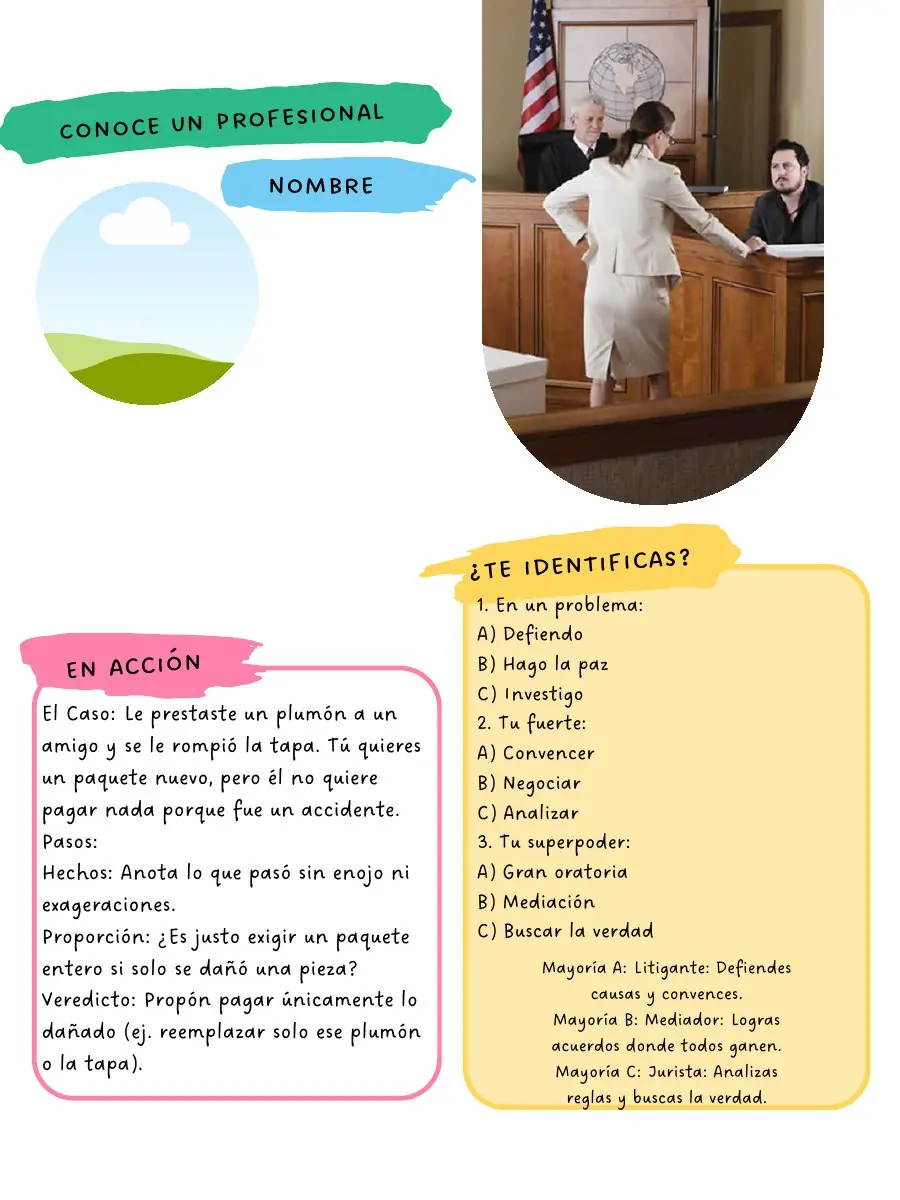
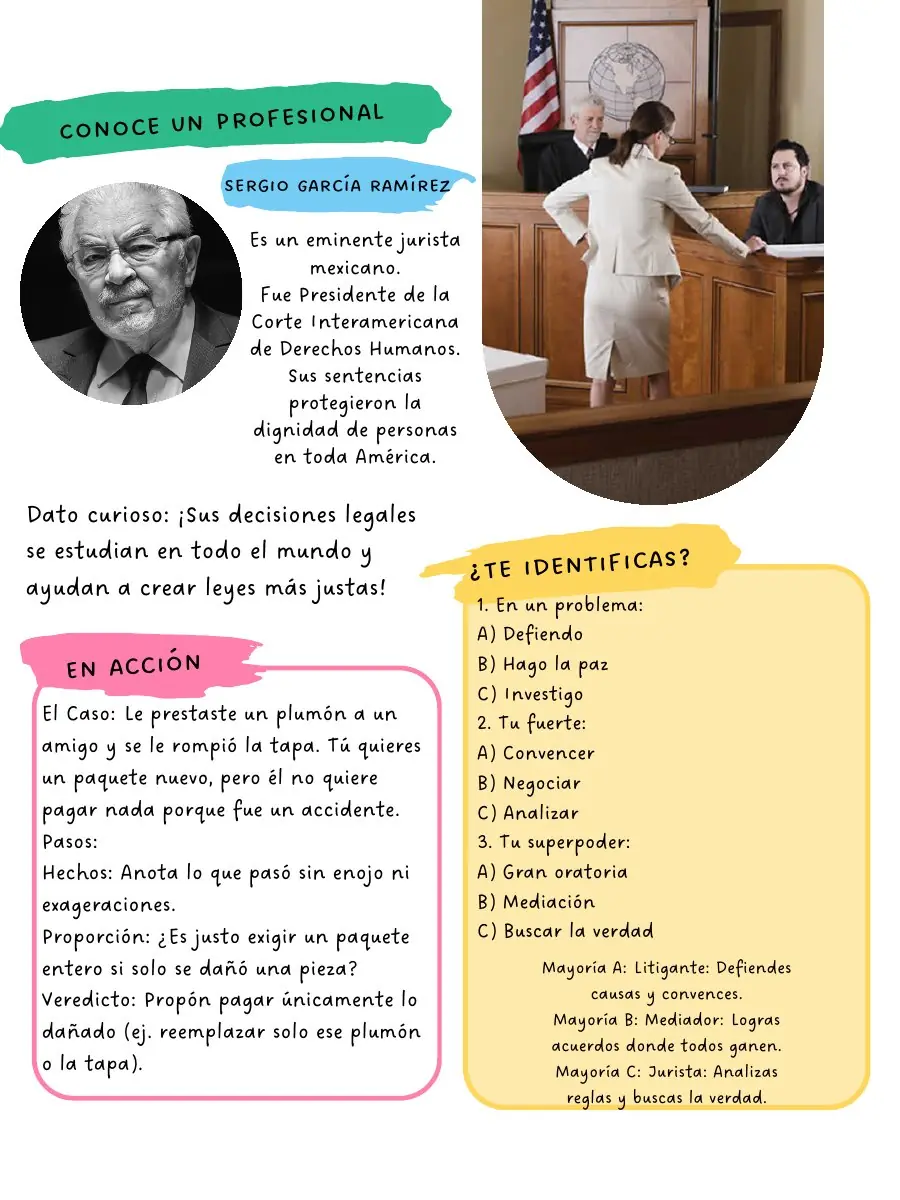
Add files via upload

Changed region(s): [[0.0, 0.1233, 0.4978, 0.4933]]

diff --git a/app.js b/app.js
@@ -74,8 +74,12 @@ const NOT_CONFUSE={
 "biologia":"Biología estudia a los seres vivos y sus procesos; Veterinaria se enfoca en prevenir, diagnosticar y tratar enfermedades de los animales.",
 "agricultura":"Agricultura cultiva plantas y alimentos cuidando la tierra y el agua; Biología estudia a los seres vivos en general.",
 "quimica":"Química estudia de qué están hechas las cosas y cómo se transforman; Física estudia el movimiento, la luz, la energía y la gravedad.",
-"fisica":"Física estudia el movimiento, la luz, la energía y la gravedad; Química estudia de qué están hechas las cosas y cómo se transforman."};
-// Conoce a un profesional: id -> [nombre, perfil, dato curioso]. Faltan: derecho, atleta, quimica
+"fisica":"Física estudia el movimiento, la luz, la energía y la gravedad; Química estudia de qué están hechas las cosas y cómo se transforman.",
+"docencia":"Docencia se enfoca en cómo enseñar y ayudar a aprender; Física, Música y otras carreras se enfocan en dominar un tema, y quienes las estudian también pueden dedicarse a enseñarlo.",
+"derecho":"Derecho estudia las leyes y ayuda a defender derechos y resolver conflictos; Administración de Empresas puede conocer leyes de negocios, pero se enfoca en organizar y dirigir una empresa.",
+"musica":"Música crea e interpreta sonidos y canciones; Diseño de Moda crea prendas y colecciones. Las dos son carreras creativas, pero con materiales muy diferentes.",
+"atleta":"Atleta entrena y compite para mejorar su rendimiento deportivo; Nutrición estudia cómo la alimentación influye en la salud, también la de las personas deportistas."};
+// Conoce a un profesional: id -> [nombre, perfil, dato curioso]. Completo (24 carreras)
 const PERFILES={
 "arquitectura":["Luis Barragán","Fue un arquitecto mexicano famoso por sus colores y jardines. ¡En 1980 ganó el Premio Pritzker, el más importante de arquitectura!","¡Sus edificios parecen obras de arte gracias a sus colores y formas!"],
 "ingenieria-civil":["Ángela Alessio Robles","Fue una ingeniera civil mexicana que ayudó a planear el crecimiento de la Ciudad de México y participó en proyectos urbanos como la Macroplaza de Monterrey.","En 1965 fue reconocida como Mujer del Año por su trayectoria profesional."],
@@ -298,6 +302,10 @@ Object.assign(PERFILES,{
 "nutricion":["Elena Zambrano González","Es una investigadora y nutrióloga mexicana que ganó la Medalla David Barker. Estudia cómo los alimentos que comemos desde bebés nos ayudan a crecer fuertes y prevenir enfermedades.","¡Sus descubrimientos enseñan a las familias a comer rico y sano para vivir mejor!"],
 "docencia":["Diana Lorena Rubio Navarro","Es una maestra mexicana nominada entre las 10 mejores docentes del mundo en el Global Teacher Prize. Enseña ciencias a niños con experimentos divertidos para descubrir sus talentos.","¡Sus clases de ciencia son tan creativas que inspiran a sus alumnos a convertirse en grandes inventores!"]});
 
+Object.assign(PERFILES,{
+"derecho":["Sergio García Ramírez","Es un eminente jurista mexicano. Fue Presidente de la Corte Interamericana de Derechos Humanos. Sus sentencias protegieron la dignidad de personas en toda América.","¡Sus decisiones legales se estudian en todo el mundo y ayudan a crear leyes más justas!"],
+"atleta":["Saúl “Canelo” Álvarez","Es un boxeador mexicano legendario. Ha sido campeón mundial en múltiples divisiones de peso, ¡un logro increíble!","¡Es el primer boxeador de la historia en ser campeón indiscutible de peso supermediano!"],
+"quimica":["Mario Molina","Fue un gran químico mexicano que descubrió por qué la capa de ozono se dañaba. ¡Por su investigación, ganó el Premio Nobel de Química!","¡Gracias a su trabajo, el mundo se unió para proteger el medio ambiente prohibiendo sustancias dañinas!"]});
 // Actividades destacadas del Patronato (agregar aquí las siguientes): [foto, título, texto, texto alternativo, posición de la foto]
 const ACTD=[
 ["act-mural","Mural colectivo","Trabajamos juntos para crear un mural lleno de color y creatividad.","Niña pintando con un pincel un mural sobre papel kraft","35% 55%"],
@@ -310,9 +318,84 @@ const REV_N=51,REV_PDF="";/* poner aquí la ruta del PDF (ej. "revista/DESCUBRE.
 const REV_ORDER=["arquitectura","ingenieria-civil","carpinteria","medicina","veterinaria","nutricion","docencia","derecho","programacion","ingenieria-mecanica","diseno-de-moda","musica","administracion-de-empresas","reposteria-y-panaderia","marketing-y-publicidad","emprendimiento","gastronomia","biologia","agricultura","aviacion","atleta","maquillaje","quimica","fisica"];
 const revSrc=n=>(window.IMGDATA&&IMGDATA["rev"+n])||"revista/p"+String(n).padStart(2,"0")+".webp";
 
+// Fotos de las personas destacadas: id de carrera -> texto alternativo de la foto grande.
+// Archivos: img/persona-<id>-cara.webp (cuadrada, va en círculo) e img/persona-<id>-grande.webp (va en arco, a la derecha)
+const PFOTOS={
+"arquitectura":"Patio con muros de colores morado, rosa y blanco, un árbol grande, cactus y vasijas de barro",
+"ingenieria-civil":"Plaza con una gran bandera de México y un edificio histórico de cantera",
+"carpinteria":"Figuras de madera talladas y pintadas de dos jugadores de futbol dentro de un marco decorado",
+"medicina":"Mano con guante azul aplicando una vacuna en un brazo",
+"nutricion":"Mujer sonriente sosteniendo una medalla dorada en una caja negra",
+"programacion":"Mujer con un vestido bordado de flores frente a un edificio con el letrero de Google",
+"ingenieria-mecanica":"Dos hombres trabajando con equipo electrónico en una fotografía en blanco y negro",
+"aviacion":"Portada antigua de una revista con un piloto de pie frente a su avión",
+"fisica":"Cohete despegando entre nubes de humo y fuego al atardecer",
+"docencia":"Maestra sonriente mostrando un experimento con una botella en un salón",
+"agricultura":"Edificio de la universidad con el nombre Antonio Narro en la fachada, rodeado de jardines",
+"biologia":"Mujer con gorra y camisa de campo entre las hojas de una selva",
+"veterinaria":"Hombre sosteniendo un diploma enmarcado y un trofeo en una ceremonia de premiación frente a un mural de animales",
+"reposteria-y-panaderia":"Mesa con el nombre Mis Pastelitos en una cafetería decorada con donas, helados y macarons gigantes",
+"gastronomia":"Portada de un libro de recetas mexicanas con chiles rellenos en un plato de barro",
+"maquillaje":"Un hombre ajusta el vestido de una modelo durante la preparación de un desfile",
+"diseno-de-moda":"Modelo con sombrero negro y un poncho rosa bordado con figuras de colores en una pasarela",
+"musica":"Cantante con micrófono en un concierto, con los ojos cerrados",
+"emprendimiento":"Hombre sonriente sentado frente a una pantalla morada en un programa de televisión",
+"marketing-y-publicidad":"Hombre de playera negra dando una conferencia con micrófono y señalando hacia un lado",
+"derecho":"Hombre sonriente sosteniendo varios libros sobre una mesa, frente a un escudo en la pared",
+"atleta":"Boxeador con varios cinturones de campeonato sobre un fondo oscuro",
+"quimica":"Hombre de traje gris de pie frente a un fondo dorado",
+"administracion-de-empresas":"Réplica de un avión dentro de un centro de actividades para niños, con el letrero de KidZania"};
+const avatar=id=>PFOTOS[id]?`<img class="avatar" src="${imgSrc("persona-"+id+"-cara")}" alt="Retrato de ${PERFILES[id][0]}" loading="lazy">`:`<div class="ph round" role="img" aria-label="Espacio para foto de la persona destacada"></div>`;
+const grande=id=>PFOTOS[id]?`<img class="arch" src="${imgSrc("persona-"+id+"-grande")}" alt="${PFOTOS[id]}" loading="lazy">`:`<div class="ph arch" role="img" aria-label="Espacio para foto grande"></div>`;
+
+// Créditos de imágenes: [sección, [[título, [líneas]]]]. Las líneas que empiezan con "Créditos:", "Fuente:" o "Fuentes:" se muestran con la etiqueta en negritas.
+const CRED=[
+["Ciencia, tecnología e ingeniería",[
+["Dra. Diana Lorena Rubio Navarro",["Retrato y fotografía realizando experimentos en un laboratorio o aula.","Créditos: cortesía de Diana Lorena Rubio Navarro, Movimiento STEAM / Global Teacher Prize."]],
+["Dra. Elena Zambrano González",["Retrato institucional.","Fotografía con la Medalla David Barker 2025.","Créditos: INCMNSZ / Facultad de Química de la UNAM / International DOHaD Society."]],
+["Emilio Carranza Rodríguez",["Fotografías históricas junto a sus aeronaves.","Portada del semanario Jueves de Excélsior, del 14 de junio de 1928.","Fuentes: Archivo Histórico de Excélsior / Fototeca Nacional del INAH / Library of Congress."]],
+["Guillermo González Camarena",["Fotografías históricas del inventor trabajando en su laboratorio con equipos y circuitos electrónicos.","Fuente: Archivo Histórico de la Televisión Mexicana."]],
+["Gabriela Salas Cabrera",["Retrato de divulgación científica.","Fotografía en instalaciones de Google.","Fuentes: Tec Review / Agencia EFE / Forbes México / Google México."]],
+["J. Guadalupe Velázquez Galván",["Retrato durante una entrega de reconocimientos.","Retablo futbolístico de madera policromada.","Créditos: J. Guadalupe Velázquez Galván / Secretaría de Cultura de México / FONART / Fomento Cultural Banamex."]],
+["Dr. Carlos Canseco González",["Retrato relacionado con su trayectoria médica y su participación en la lucha mundial contra la poliomielitis.","Fuente: Rotary International / campaña End Polio Now."]],
+["Ing. Ángela Alessio Robles",["Fotografía documental frente al Zócalo y la Catedral de la Ciudad de México.","Fuentes: Fototeca Nacional del INAH / Archivo Histórico de la Ciudad de México."]],
+["Dra. Margaret Dominguez",["Retrato profesional relacionado con su trabajo en ingeniería óptica e investigación espacial.","Fuente: NASA / materiales institucionales de divulgación científica."]]]],
+["Arquitectura y espacios urbanos",[
+["Luis Barragán Morfín",["Retrato histórico del arquitecto.","Créditos: Fundación de Arquitectura Luis Barragán / Barragan Foundation."]],
+["Casa Gilardi",["Fotografía del patio interior con jacaranda y muros de colores.","Créditos: Fundación de Arquitectura Luis Barragán / Barragan Foundation."]],
+["Plaza Zaragoza, Palacio de Gobierno y Macroplaza de Monterrey",["Fotografía panorámica del espacio urbano.","Fuentes: archivos turísticos de Monterrey / Filma Nuevo León."]],
+["Campus de la Universidad Autónoma Agraria Antonio Narro",["Fotografía de la fachada del edificio de Rectoría en Saltillo, Coahuila.","Créditos: Universidad Autónoma Agraria Antonio Narro (UAAAN)."]]]],
+["Medicina y salud",[
+["Fotografía de vacunación",["Imagen de un profesional de la salud aplicando una vacuna.","Fuente: banco de imágenes Freepik / Adobe Stock / Shutterstock."]],
+["Cohete Falcon Heavy y proyecto Nancy Grace Roman Space Telescope",["Fotografía relacionada con el lanzamiento de cohetes y la exploración espacial.","Créditos: NASA / SpaceX."]]]],
+["Gastronomía",[
+["Enrique Olvera",["Retrato profesional del chef.","Fuentes: Grupo Olvera / Pujol."]],
+["Libro Tu Casa Mi Casa",["Portada del libro de cocina mexicana.","Créditos editoriales: Phaidon Press.","Autores: Enrique Olvera, Luis Arellano, Gonzalo Goût y Daniela Soto-Innes."]],
+["Gris Verduzco — Mis Pastelitos",["Retrato promocional de la creadora de contenido.","Fotografía de un espacio temático o evento de Mis Pastelitos.","Créditos: Gris Verduzco / Mis Pastelitos / Sisters On Trend."]]]],
+["Diseño, moda y belleza",[
+["Carla Fernández",["Retrato de la diseñadora.","Fotografía de pasarela con prendas inspiradas en técnicas textiles tradicionales.","Fuentes: Carla Fernández / Mercedes-Benz Fashion Week México."]],
+["Luis Torres",["Retrato profesional del maquillador.","Fotografía maquillando a Kendall Jenner.","Fuentes: Luis Torres Beauty / Vogue."]]]],
+["Administración, negocios y emprendimiento",[
+["Arturo Elías Ayub",["Retrato corporativo.","Fotografía en el set de Shark Tank México.","Fuentes: Grupo Carso / América Móvil / Sony Pictures Television."]],
+["Edson Noyola",["Retrato profesional.","Fotografía durante una conferencia de mercadotecnia.","Fuente: Tecnológico de Monterrey / EXATEC."]]]],
+["Música y entretenimiento",[
+["Juan Gabriel",["Retrato de estudio.","Fotografía durante una presentación en vivo.","Fuentes: Agencia EFE / Getty Images / archivos musicales."]]]],
+["Agricultura, medio ambiente e historia regional",[
+["Antonio Narro Rodríguez",["Retrato histórico del agrónomo y benefactor coahuilense.","Fuente: archivo histórico regional / Universidad Autónoma Agraria Antonio Narro."]],
+["Dr. Moisés Vargas Terán",["Retrato relacionado con su trayectoria médica y académica.","Fuente: archivo de divulgación médica y académica."]],
+["Julia Carabias Lillo",["Retrato institucional.","Fotografía en una selva o reserva natural.","Fuentes: SEMARNAT / UNAM / Fundación Natura y Ecosistemas Mexicanos."]]]],
+["Educación y experiencias profesionales",[
+["Instalaciones de KidZania Surabaya",["Fotografía de una réplica de avión patrocinada por tiket.com.","Fuentes: KidZania / tiket.com."]],
+["Xavier López Ancona",["Retrato corporativo del fundador de KidZania.","Fuente: KidZania."]]]]];
+const CRED3=[
+["1. Dr. Mario Molina","Ingeniero químico, científico y académico mexicano, ganador del Premio Nobel de Química en 1995 por sus investigaciones sobre la capa de ozono.","© Centro Mario Molina / Archivo Fotográfico Institucional.","Retrato institucional utilizado con fines informativos y biográficos."],
+["2. Saúl “Canelo” Álvarez","Boxeador profesional mexicano y campeón mundial en múltiples divisiones de peso.","© Getty Images / Matchroom Boxing.","Fotografía deportiva de carácter promocional o editorial, sujeta a los derechos de sus respectivos titulares."],
+["3. Dr. Sergio García Ramírez","Jurista, investigador, escritor y magistrado mexicano, reconocido por su trayectoria en derecho penal y derechos humanos.","© UNAM, Instituto de Investigaciones Jurídicas / Archivo Académico.","Retrato institucional y académico utilizado con fines informativos y de divulgación jurídica."]];
+const credLine=l=>/^(Créditos editoriales|Créditos|Fuentes?|Autores):/.test(l)?`<p><b>${l.slice(0,l.indexOf(":")+1)}</b>${l.slice(l.indexOf(":")+1)}</p>`:`<p>${l}</p>`;
+
 /* ===== VISTAS ===== */
 const views={
-inicio(){const feat=CAREERS.slice(0,4);return `<section class="hero"><div><h1 aria-label="¡Descubre tu talento, diseña tu futuro!">${rb("¡Descubre tu talento, diseña tu futuro!")}</h1><p>¡Explora el mundo de las carreras! Descubre qué hacen las personas en diferentes profesiones, conoce nuevas opciones y prueba actividades para descubrir cuáles te interesan más. ¡Hay todo un mundo de carreras por conocer!</p><p><a class="btn" href="#carreras">Explorar carreras</a> <a class="btn alt" href="#actividades">Descubrir actividades</a></p></div>${ph("ilustración principal")}</section>
+inicio(){const feat=CAREERS.slice(0,4);return `<section class="hero"><div><h1 aria-label="¡Descubre tu talento, diseña tu futuro!">${rb("¡Descubre tu talento, diseña tu futuro!")}</h1><p>¡Explora el mundo de las carreras! Descubre qué hacen las personas en diferentes profesiones, conoce nuevas opciones y prueba actividades para descubrir cuáles te interesan más. ¡Hay todo un mundo de carreras por conocer!</p><p><a class="btn" href="#carreras">Explorar carreras</a> <a class="btn alt" href="#actividades">Descubrir actividades</a></p></div></section>
 <section><h2>Carreras destacadas</h2><div class="grid">${feat.map(careerCard).join("")}</div></section>
 <section><h2>Actividades destacadas</h2><p>Lo que hemos hecho en el Patronato de la Casa de los Niños.</p>${destacadas()}</section>
 <section class="two"><div class="box hl"><h2>Conoce a un profesional</h2><p>¡Conoce a personas increíbles que han convertido sus ideas y talentos en grandes logros!</p><a class="btn" href="#profesionales">Ver perfiles</a></div><div class="box hl"><h2>Diccionario de carreras</h2><p>¡Descubre qué significan palabras como beca, carrera y profesión, y aprende nuevas palabras que te ayudarán a explorar tu futuro!</p><a class="btn" href="#diccionario">Abrir diccionario</a></div></section>
@@ -327,18 +410,19 @@ return `<section class="cr"><a class="crumb" href="#carreras-lista">← Todas la
 ${NOT_CONFUSE[id]?`<div class="box hl" style="margin-top:18px"><h3>¡No las confundas!</h3><p>${NOT_CONFUSE[id]}</p></div>`:""}
 <div class="two" style="margin-top:18px"><div class="box"><h2>Habilidades clave</h2><ul class="pills">${(CS[id]||[]).map(k=>`<li>${k}</li>`).join("")}</ul></div><div class="box hl"><h2>Datos rápidos</h2><div class="fact"><span>🎓</span><div><b>Estudios:</b> ${F.e||T("Estudios")}</div></div><div class="fact"><span>💼</span><div><b>¿Qué hacen en el trabajo?</b>${F.q?(Array.isArray(F.q)?`<ul class="steps">${F.q.map(x=>`<li>${x}</li>`).join("")}</ul>`:" "+F.q):" "+T("Trabajo")}</div></div>${F.w2?`<div class="fact"><span>📍</span><div><b>¿Dónde pueden trabajar?</b> ${F.w2}</div></div>`:""}<div class="fact"><span>🧭</span><div><b>Campo laboral:</b> ${F.l||T("Campo laboral")}</div></div></div></div>
 ${F.w?`<div class="box" style="margin-top:18px"><h2>¿Dónde puede trabajar?</h2><p>${F.w}</p></div>`:""}
-<div class="two" style="margin-top:18px"><div class="box"><h2>Conoce a un profesional</h2><div class="prof"><div class="ph round" role="img" aria-label="Espacio para foto del profesional"></div><div><span class="brush">${P?P[0]:"[Nombre]"}</span></div></div>${P?`<p>${P[1]}</p><p><b>Dato curioso:</b> ${P[2]}</p>`:`<p>${T("Perfil de una persona destacada")}</p>`}<a href="#profesionales">Ver más perfiles</a></div><div class="box"><h2>En acción</h2><span class="tag">Carrera: ${a.cn}</span><h3>${a.t}</h3><p><b>Necesitas:</b> ${a.m}</p><ol class="steps">${a.p.map(s=>`<li>${s}</li>`).join("")}</ol><a href="#enaccion">Más actividades</a></div></div>
+<div class="two" style="margin-top:18px"><div class="box"><h2>Conoce a un profesional</h2><div class="prof">${P?avatar(id):`<div class="ph round" role="img" aria-label="Espacio para foto del profesional"></div>`}<div><span class="brush">${P?P[0]:"[Nombre]"}</span></div></div>${P?`<p>${P[1]}</p><p><b>Dato curioso:</b> ${P[2]}</p>`:`<p>${T("Perfil de una persona destacada")}</p>`}<a href="#profesionales">Ver más perfiles</a></div><div class="box"><h2>En acción</h2><span class="tag">Carrera: ${a.cn}</span><h3>${a.t}</h3><p><b>Necesitas:</b> ${a.m}</p><ol class="steps">${a.p.map(s=>`<li>${s}</li>`).join("")}</ol><a href="#enaccion">Más actividades</a></div></div>
 ${ts?testHTML(ts,false):""}
 <div class="box hl" style="margin-top:18px"><h2>Dato curioso</h2><p>${F.d||T("Dato")}</p></div>
 ${F.z?`<p class="cierre" style="color:${PAL[(ix+2)%5]}">${F.z}</p>`:""}
 <h2 style="margin-top:28px">Profesiones relacionadas</h2><div class="grid">${rel.map(careerCard).join("")}</div></section>`},
-profesionales(){return `<section><h2>Conoce a un profesional</h2><p>Personas destacadas de México en distintas profesiones.</p>${CAREERS.filter(c=>PERFILES[c[0]]).map(c=>{const p=PERFILES[c[0]];return `<article class="pro"><div><div class="prof"><div class="ph round" role="img" aria-label="Espacio para foto de ${esc(p[0])}"></div><div><span class="brush">${esc(p[0])}</span><br><span class="tag">${c[1]}</span></div></div><p>${esc(p[1])}</p><div class="box"><h3>Dato curioso</h3><p>${esc(p[2])}</p></div><a href="#carrera-${c[0]}">Ver la carrera</a></div><div class="ph arch" role="img" aria-label="Espacio para foto grande de ${esc(p[0])}"></div></article>`}).join("")}</section>`},
+profesionales(){return `<section><h2>Conoce a un profesional</h2><p>Personas destacadas de México en distintas profesiones.</p>${CAREERS.filter(c=>PERFILES[c[0]]).map(c=>{const p=PERFILES[c[0]];return `<article class="pro"><div><div class="prof">${avatar(c[0])}<div><span class="brush">${esc(p[0])}</span><br><span class="tag">${c[1]}</span></div></div><p>${esc(p[1])}</p><div class="box"><h3>Dato curioso</h3><p>${esc(p[2])}</p></div><a href="#carrera-${c[0]}">Ver la carrera</a></div>${grande(c[0])}</article>`}).join("")}</section>`},
 diccionario(){return `<section><h2>Diccionario de carreras</h2><div class="tools"><input id="gq" type="search" placeholder="Busca una palabra…" aria-label="Buscar palabra"></div><div class="az" id="az"></div><div class="grid" id="gl" style="margin-top:16px"></div></section>`},
 actividades(){return `<section><h2>Actividades y tests</h2><div class="two"><div class="box"><h3>Conoce a un profesional</h3><p>Perfiles de personas destacadas de México.</p><a class="btn" href="#profesionales">Entrar</a></div><div class="box"><h3>En acción</h3><p>Actividades con hoja, lápiz y otros materiales.</p><a class="btn" href="#enaccion">Entrar</a></div><div class="box"><h3>¿Te identificas?</h3><p>Tests para descubrir tus intereses.</p><a class="btn" href="#tests">Entrar</a></div><div class="box"><h3>Diccionario de carreras</h3><p>Palabras explicadas fácil.</p><a class="btn" href="#diccionario">Entrar</a></div></div></section>`},
 revista(){return `<section class="rvs"><div class="rvtop"><h2>Revista digital</h2><label>Ir a: <select id="rv-go"></select></label><span id="rv-n" aria-live="polite"></span></div><div class="rv-stage"><button class="rv-nav" id="rv-prev" type="button" aria-label="Página anterior">‹</button><div class="rv-book" id="rv-book"></div><button class="rv-nav" id="rv-next" type="button" aria-label="Página siguiente">›</button></div><p id="rv-link" style="text-align:center"></p>${REV_PDF?`<p style="text-align:center"><a class="btn" href="${REV_PDF}" download>Descargar o imprimir la revista (PDF)</a></p>`:""}</section>`},
 sobre(){return `<section><h2>Sobre el proyecto</h2><div class="two"><div class="box"><h3>Por qué surgió</h3><p>DESCUBRE nació de la idea de acercar el mundo de las profesiones a más personas y ayudarlas a descubrir nuevas posibilidades para su futuro. Forma parte de un proyecto solidario que incluye actividades en el Patronato de la Casa de los Niños, donde buscamos despertar la curiosidad de los niños y ayudarlos a explorar sus intereses, habilidades y posibles vocaciones.</p></div><div class="box"><h3>Qué busca lograr</h3><p>Buscamos despertar la curiosidad, ampliar la visión que las personas tienen sobre las profesiones y ayudarles a reconocer sus propios intereses y habilidades. Queremos mostrar que existen muchos caminos diferentes y que conocerlos puede ayudar a imaginar un futuro con más posibilidades, sin tener que decidirlo todo desde pequeños.</p></div><div class="box"><h3>Para quién es</h3><p>DESCUBRE está pensado para niños, adolescentes, jóvenes y cualquier persona que quiera conocer más sobre las profesiones y descubrir nuevas posibilidades. También es una herramienta para maestros, familias y educadores que buscan acompañar a otros en la exploración de sus intereses y habilidades.</p></div><div class="box"><h3>ODS 4: Educación de calidad</h3><p>DESCUBRE se relaciona con el Objetivo de Desarrollo Sostenible 4 de las Naciones Unidas, que busca garantizar una educación inclusiva, equitativa y de calidad. A través de información accesible y actividades educativas, queremos acercar nuevas oportunidades de aprendizaje a distintas personas y contribuir a que conozcan más opciones para su desarrollo y futuro.</p></div><div class="box"><h3>Úsalo en talleres</h3><p>DESCUBRE puede utilizarse en talleres, escuelas y actividades grupales para explorar distintas profesiones de una manera dinámica. Su contenido permite conocer carreras, identificar habilidades personales y realizar actividades que ayuden a descubrir intereses y nuevas opciones para el futuro.</p></div><div class="box"><h3>Agradecimientos</h3><p>Agradecemos al Patronato de la Casa de los Niños por permitirnos desarrollar actividades que promueven el aprendizaje y la exploración vocacional. También agradecemos a todas las personas que colaboraron en la creación de DESCUBRE y que hicieron posible esta iniciativa, cuyo propósito es compartir conocimientos, despertar la curiosidad y acercar nuevas oportunidades a más personas.</p></div></div><h2 style="margin-top:30px">Actividades destacadas</h2>${destacadas()}</section>`},
 enaccion(){return `<section><h2>En acción</h2><p>Actividades para hacer con hoja, lápiz y otros materiales.</p><div class="tools"><input id="aq" type="search" placeholder="Busca una actividad o material…" aria-label="Buscar actividades"></div><div class="grid" id="al"></div></section>`},
 tests(){return `<section><h2>¿Te identificas?</h2><p>Tus respuestas no se guardan ni se envían a ningún lado.</p><div class="grid" id="tl"></div></section>`},
+creditos(){return `<section id="creditos"><h2>Créditos y fuentes de imágenes</h2><p>En DESCUBRE reconocemos el trabajo de fotógrafos, artistas, instituciones, medios de comunicación y organizaciones cuyas imágenes ayudan a mostrar diferentes profesiones y trayectorias. Los créditos identifican las fuentes y los titulares correspondientes a las imágenes utilizadas.</p>${CRED.map(s=>`<h2 class="cs">${s[0]}</h2><div class="grid">${s[1].map(e=>`<article class="card"><h3>${e[0]}</h3>${e[1].map(credLine).join("")}</article>`).join("")}</div>`).join("")}<h2 class="cs">Fichas de crédito</h2><div class="grid">${CRED3.map(c=>`<article class="card"><h3>${c[0]}</h3><p><b>Identificación:</b> ${c[1]}</p><p><b>Créditos y derechos de autor:</b> ${c[2]}</p><p><b>Uso:</b> ${c[3]}</p></article>`).join("")}</div><div class="box" style="margin-top:34px"><h3>Nota de créditos</h3><p>DESCUBRE reconoce la autoría de las fotografías, ilustraciones y demás materiales visuales utilizados en el proyecto. Los derechos de cada imagen pertenecen a sus respectivos autores o titulares, de acuerdo con las condiciones aplicables a cada obra.</p></div></section>`},
 nf(){return `<section><div class="empty"><h2>Página no encontrada</h2><a class="btn" href="#inicio">Volver al inicio</a></div></section>`}
 };
 

diff --git a/styles.css b/styles.css
@@ -167,3 +167,14 @@ fieldset{border:0;padding:0;margin:0 0 14px}legend{font-weight:700;margin-bottom
 .rv-book.single{width:min(100%,calc(var(--h)*.75))}
 .rv-book img{width:50%;height:auto;aspect-ratio:3/4}.rv-book.single img{width:100%}
 @media(max-width:700px){.rv-book,.rv-book.single{width:100%}.rv-book img{width:100%}}
+
+/* Inicio sin ilustración; fotos de personas; portada siempre visible */
+.hero{grid-template-columns:1fr}
+.avatar{width:120px;height:120px;border-radius:50%;object-fit:cover;flex:none;border:3px solid var(--o,#8153A4);display:block}
+img.arch{width:100%;height:100%;min-height:420px;max-height:560px;object-fit:cover;border-radius:0 0 999px 999px/0 0 220px 220px;display:block}
+.rv-book{--h:clamp(380px,66vh,680px)}
+.rv-book.single{width:min(100%,max(300px,calc(var(--h)*.75)))}
+.rv-book img{min-width:0}
+@media(max-width:700px){img.arch{min-height:300px}}
+
+#creditos h2.cs{font-size:1.7rem;margin:34px 0 12px}#creditos .card h3{font-size:1.15rem}

diff --git a/index.html b/index.html
@@ -11,7 +11,7 @@
 <header><div class="wrap"><a class="logo" href="#inicio">DESCUBRE</a>
 <nav id="nav" aria-label="Principal"></nav></div></header>
 <main id="app" class="wrap" tabindex="-1"></main>
-<footer><div class="wrap">DESCUBRE · Proyecto solidario educativo · No se recopilan datos personales. <span class="sample">Versión de prueba con contenido de ejemplo</span></div></footer>
+<footer><div class="wrap">DESCUBRE · Proyecto solidario educativo · No se recopilan datos personales. <a href="#creditos">Créditos de imágenes</a> · <span class="sample">Versión de prueba con contenido de ejemplo</span></div></footer>
 
 <script src="app.js"></script>
 </body>
